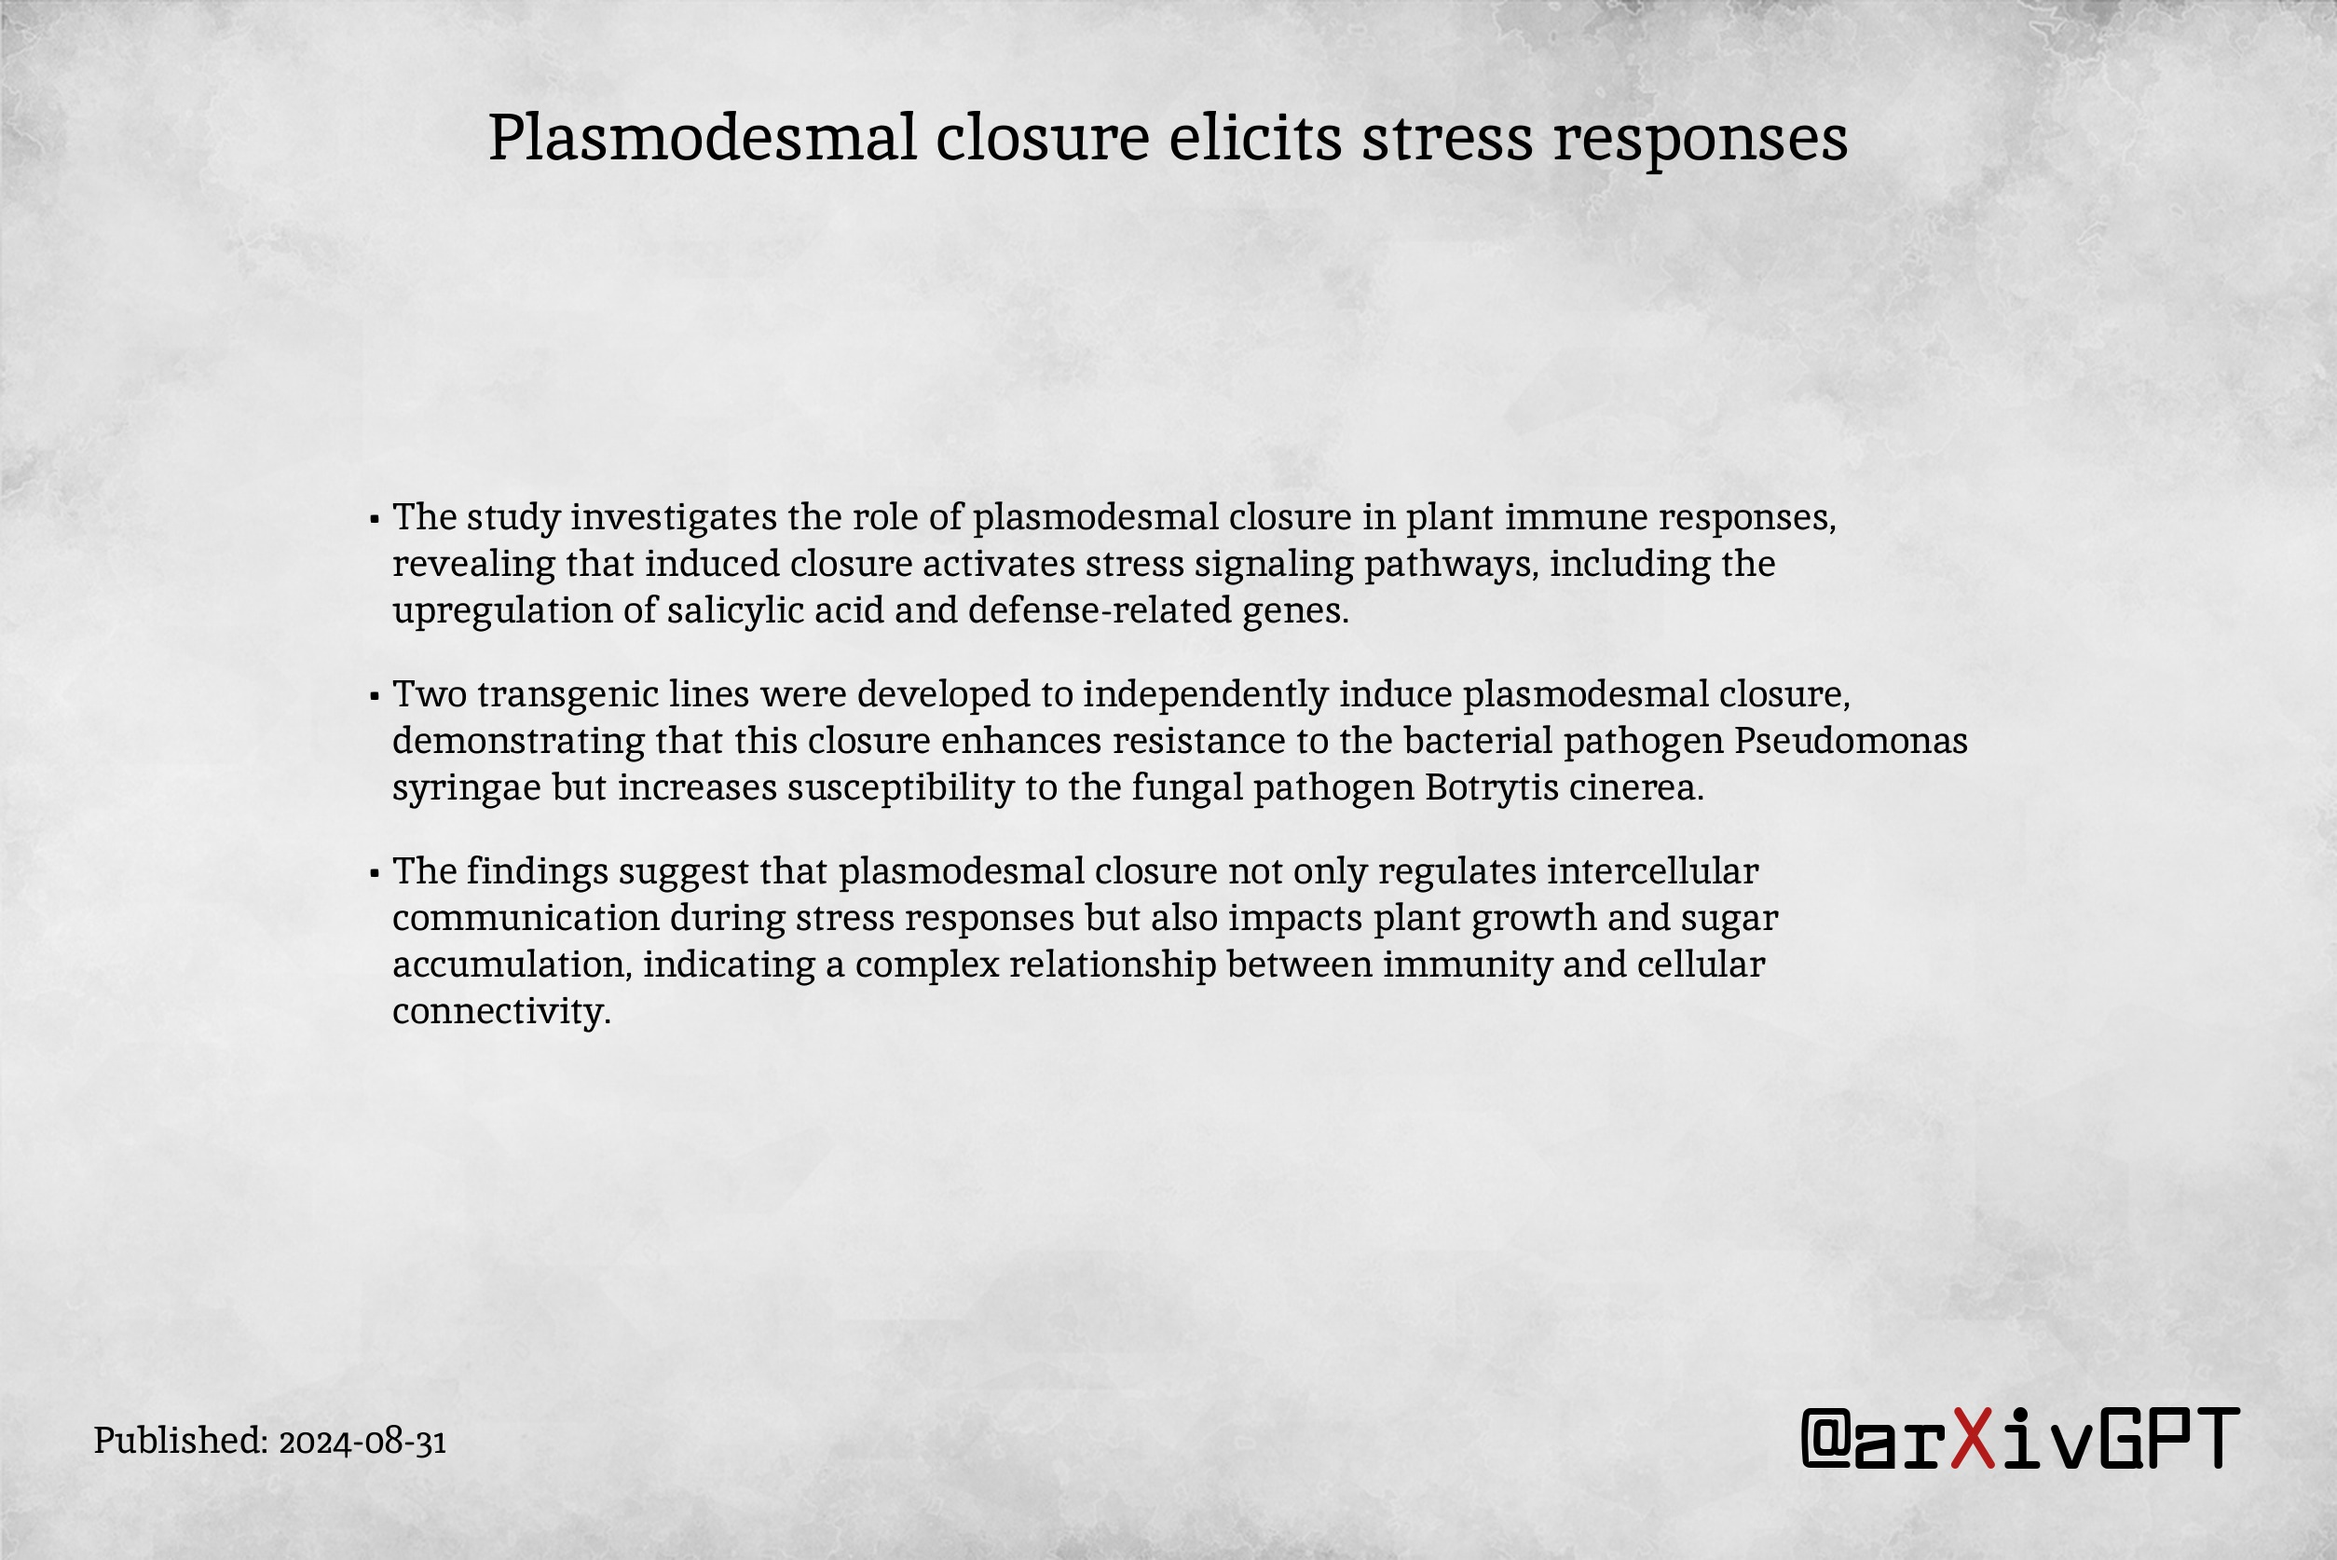
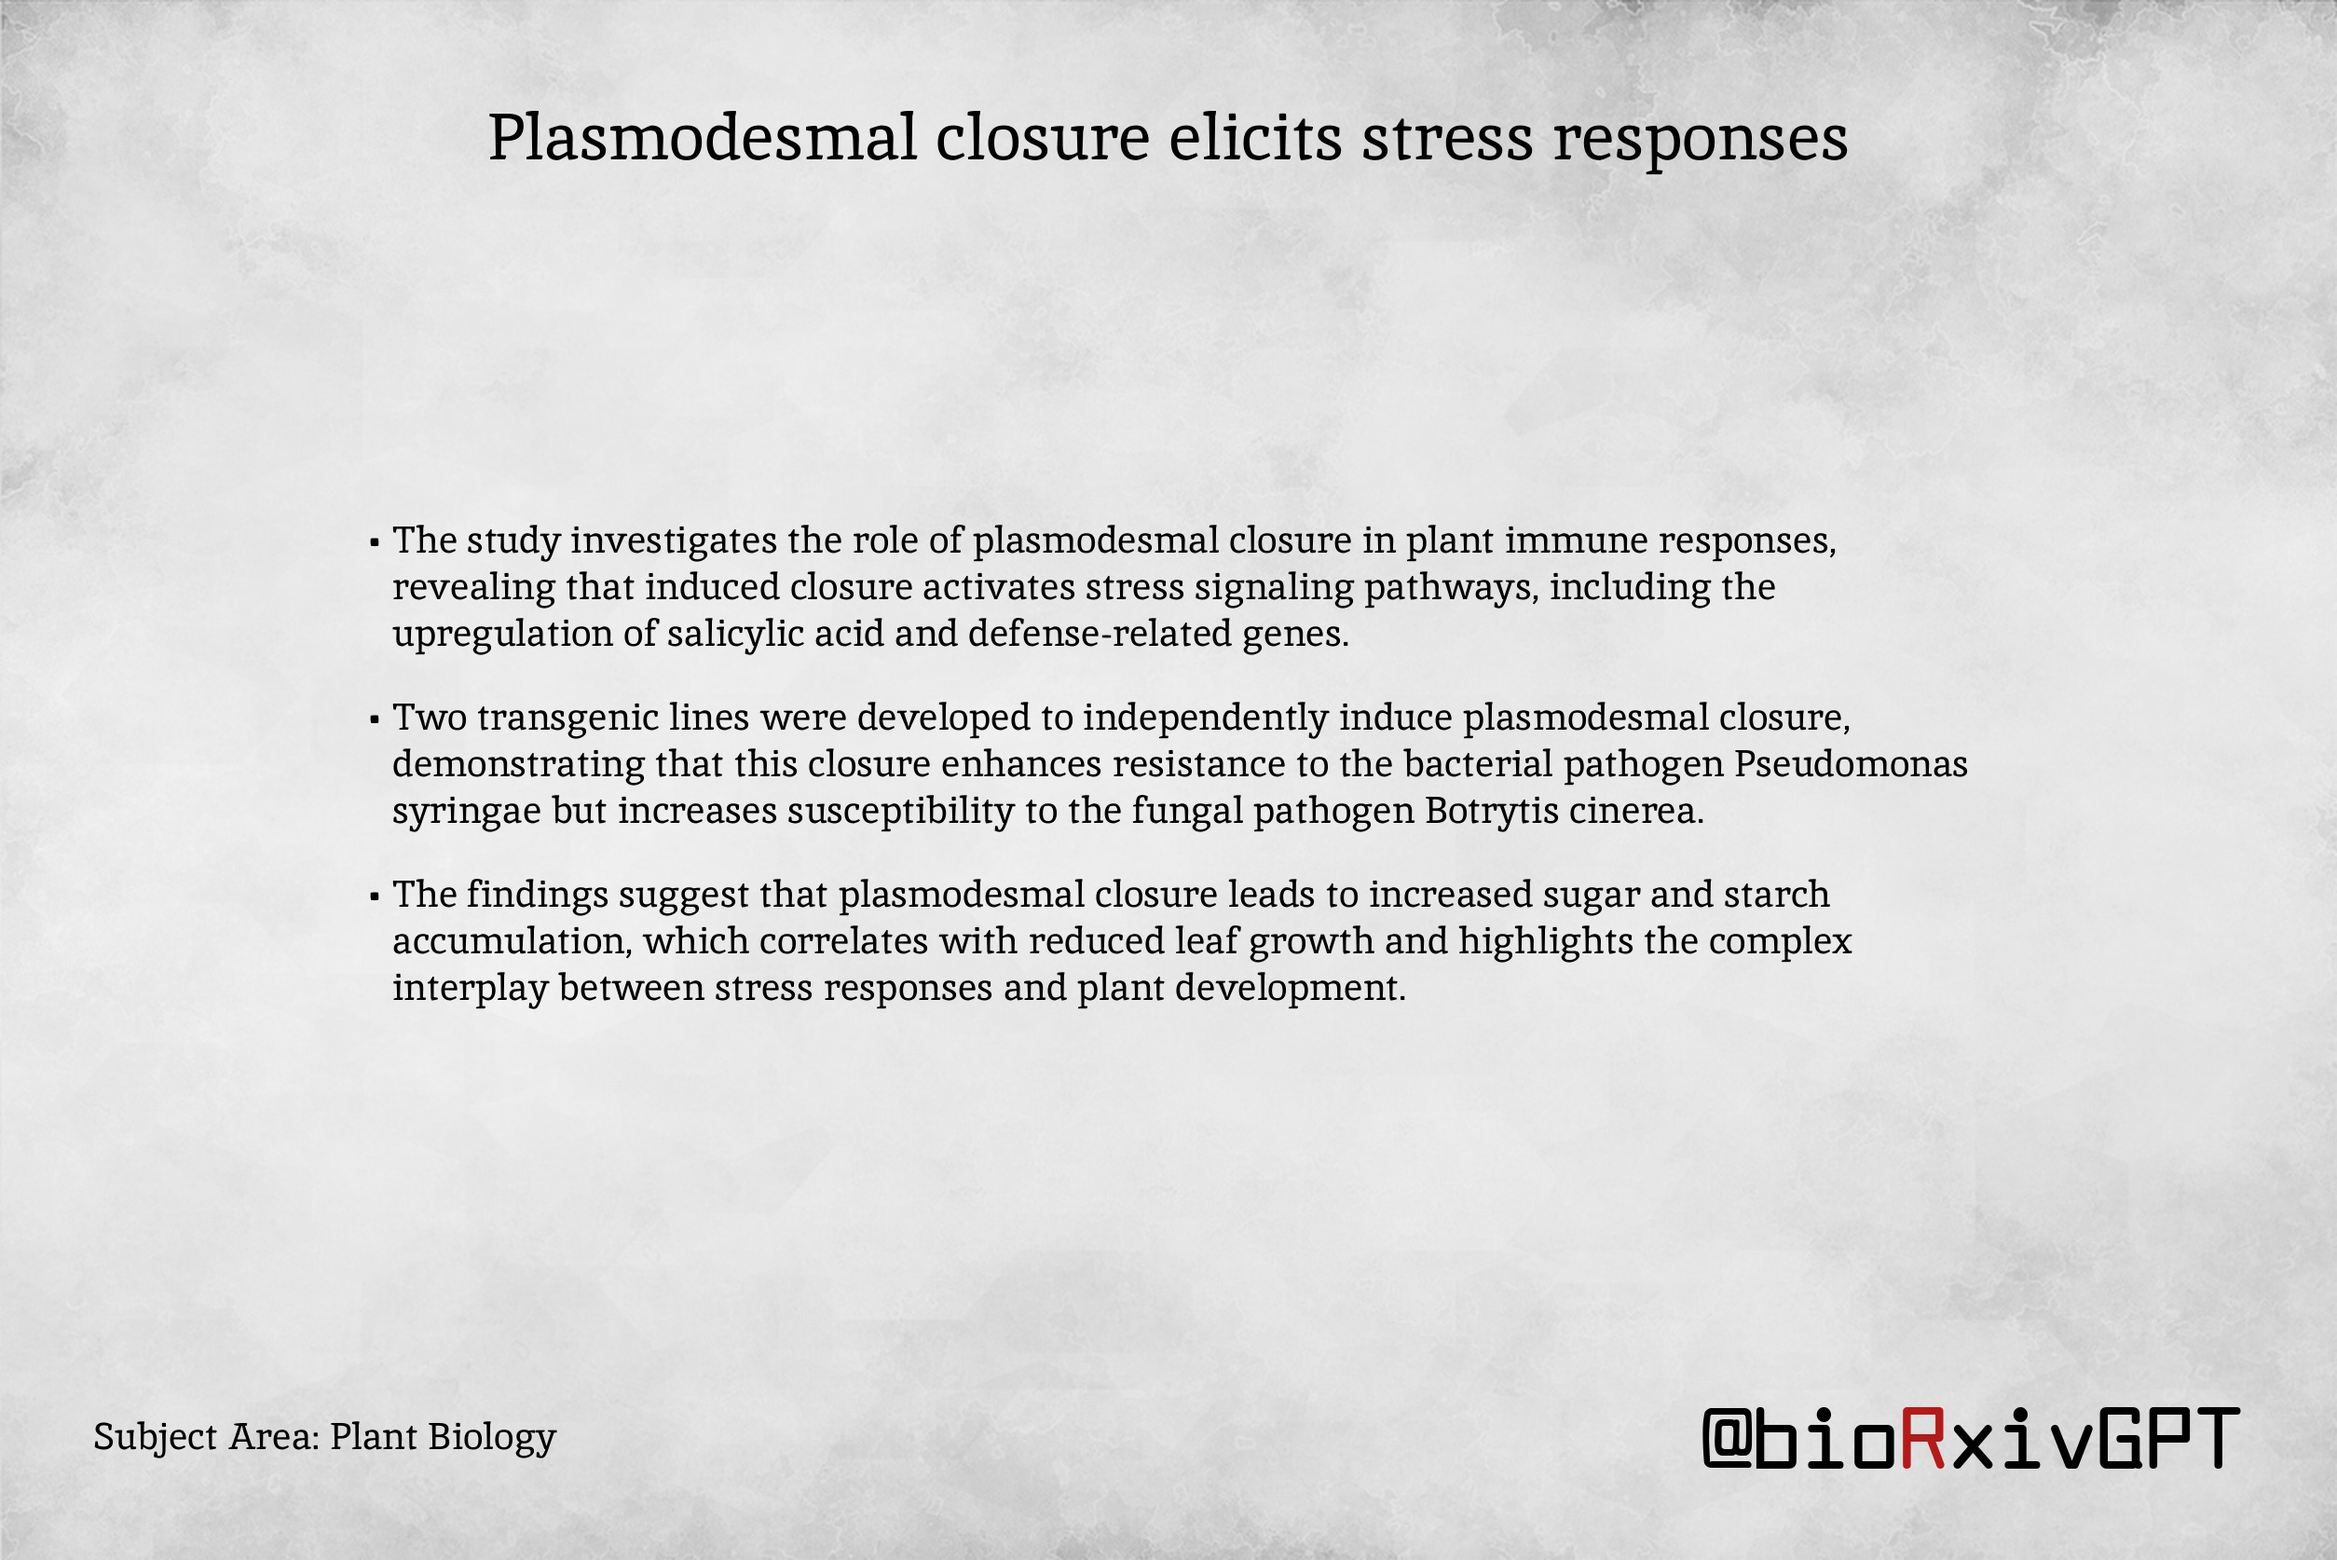
create bioarxiv image

Changed region(s): [[0.1555, 0.3106, 0.8397, 0.6523], [0.7153, 0.9008, 0.8708, 0.963], [0.0311, 0.9008, 0.2488, 0.9319]]

diff --git a/ai.py b/ai.py
@@ -45,7 +45,8 @@ def download_and_extract_paper_info(paper_info, token_limit=120000, model="gpt-3
             "title": paper_info['title'],
             "publish_date": datetime.now().strftime('%Y-%m-%d'),  # Assuming current date as publish date
             "full_text": text,
-            "twitter_handles": twitter_handles
+            "twitter_handles": twitter_handles,
+            "subject_area": paper_info['subject_area']  # Add subject area to the returned dictionary
         }
     else:
         print(f"Failed to download paper. Status code: {response.status_code}")
@@ -80,7 +81,7 @@ def summarize_text(text):
     summary = completion.choices[0].message.content
     return summary
 
-def add_text_to_image(background_path, title, text_content, publish_date, output_path="output.jpg", scale_factor=2, offset=20):
+def add_text_to_image(background_path, title, text_content, subject_area, output_path="output.jpg", scale_factor=2, offset=20):
     with Image.open(background_path) as img:
         width, height = img.size
         background = img.resize((width * scale_factor, height * scale_factor), Image.LANCZOS)
@@ -126,27 +127,27 @@ def add_text_to_image(background_path, title, text_content, publish_date, output
         
         y += (25 * scale_factor * len(wrapped_text)) + (20 * scale_factor)
 
-    date_text = f"Published: {publish_date}"
-    date_bbox = date_font.getbbox(date_text)
-    date_height = date_bbox[3] - date_bbox[1]
-    draw.text((margin, background.height - margin - date_height - offset), date_text, font=date_font, fill=(0, 0, 0))
+    subject_area_text = f"Subject Area: {subject_area}"
+    subject_area_bbox = date_font.getbbox(subject_area_text)
+    subject_area_height = subject_area_bbox[3] - subject_area_bbox[1]
+    draw.text((margin, background.height - margin - subject_area_height - offset), subject_area_text, font=date_font, fill=(0, 0, 0))
 
-    arxiv_text = "@arXivGPT"
+    arxiv_text = "@bioRxivGPT"
     arxiv_bbox = arxiv_font.getbbox(arxiv_text)
     arxiv_width = arxiv_bbox[2] - arxiv_bbox[0]
     arxiv_height = arxiv_bbox[3] - arxiv_bbox[1]
     arxiv_x = background.width - margin - arxiv_width
     arxiv_y = background.height - margin - arxiv_height - offset
 
-    pre_x_text = "@ar"
+    pre_x_text = "@bio"
     pre_x_width = arxiv_font.getbbox(pre_x_text)[2]
     draw.text((arxiv_x, arxiv_y), pre_x_text, font=arxiv_font, fill=(0, 0, 0))
 
-    x_text = "X"
+    x_text = "R"
     x_width = arxiv_font.getbbox(x_text)[2]
     draw.text((arxiv_x + pre_x_width, arxiv_y), x_text, font=arxiv_font, fill="#B31B1B")
 
-    post_x_text = "ivGPT"
+    post_x_text = "xivGPT"
     draw.text((arxiv_x + pre_x_width + x_width, arxiv_y), post_x_text, font=arxiv_font, fill=(0, 0, 0))
 
     background.save(output_path, quality=95)
@@ -156,10 +157,10 @@ def create_image_from_paper_info(paper_info, background_path="background.jpg", o
     paper_details = download_and_extract_paper_info(paper_info)
     if paper_details:
         title = paper_details.get("title")
-        publish_date = paper_details.get("publish_date")
+        subject_area = paper_details.get("subject_area")
         full_text = paper_details.get("full_text")
         summary = summarize_text(full_text)
-        add_text_to_image(background_path, title, summary, publish_date, output_path)
+        add_text_to_image(background_path, title, summary, subject_area, output_path)
         twitter_handles = paper_details.get("twitter_handles")
     return output_path, twitter_handles
 
